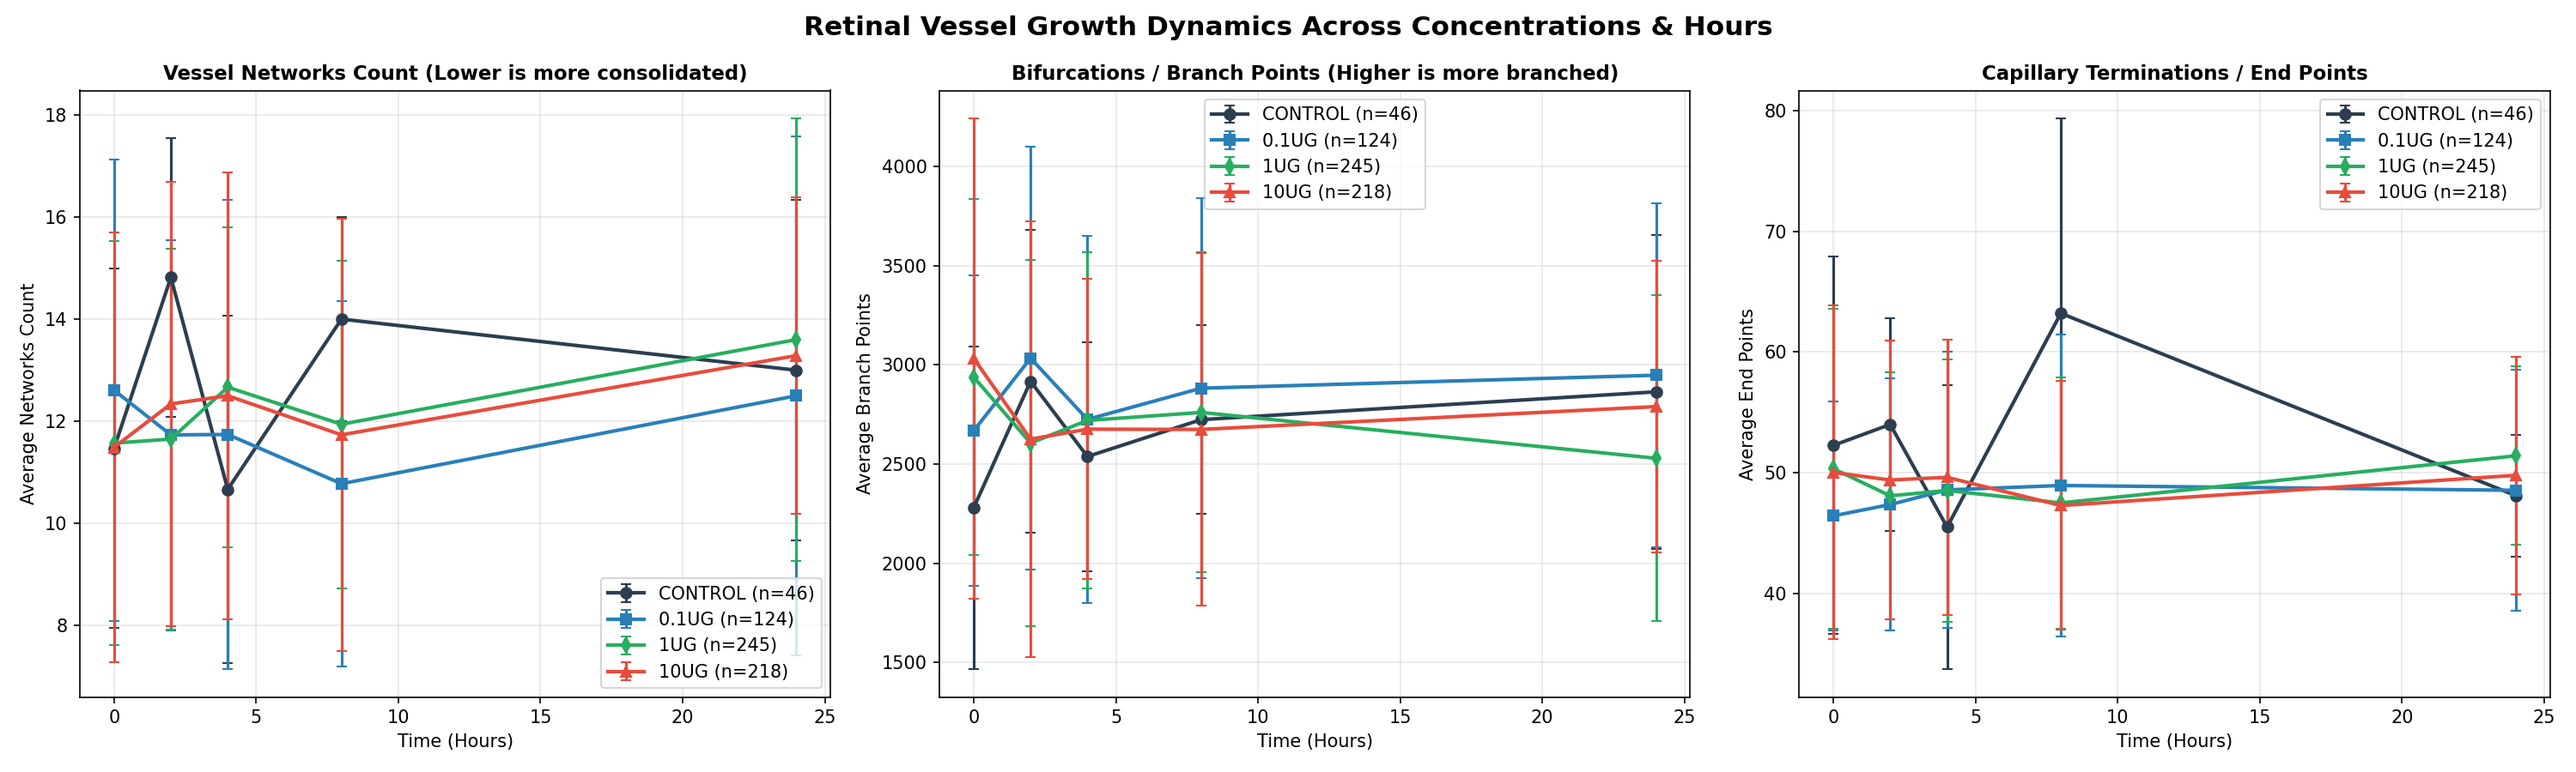
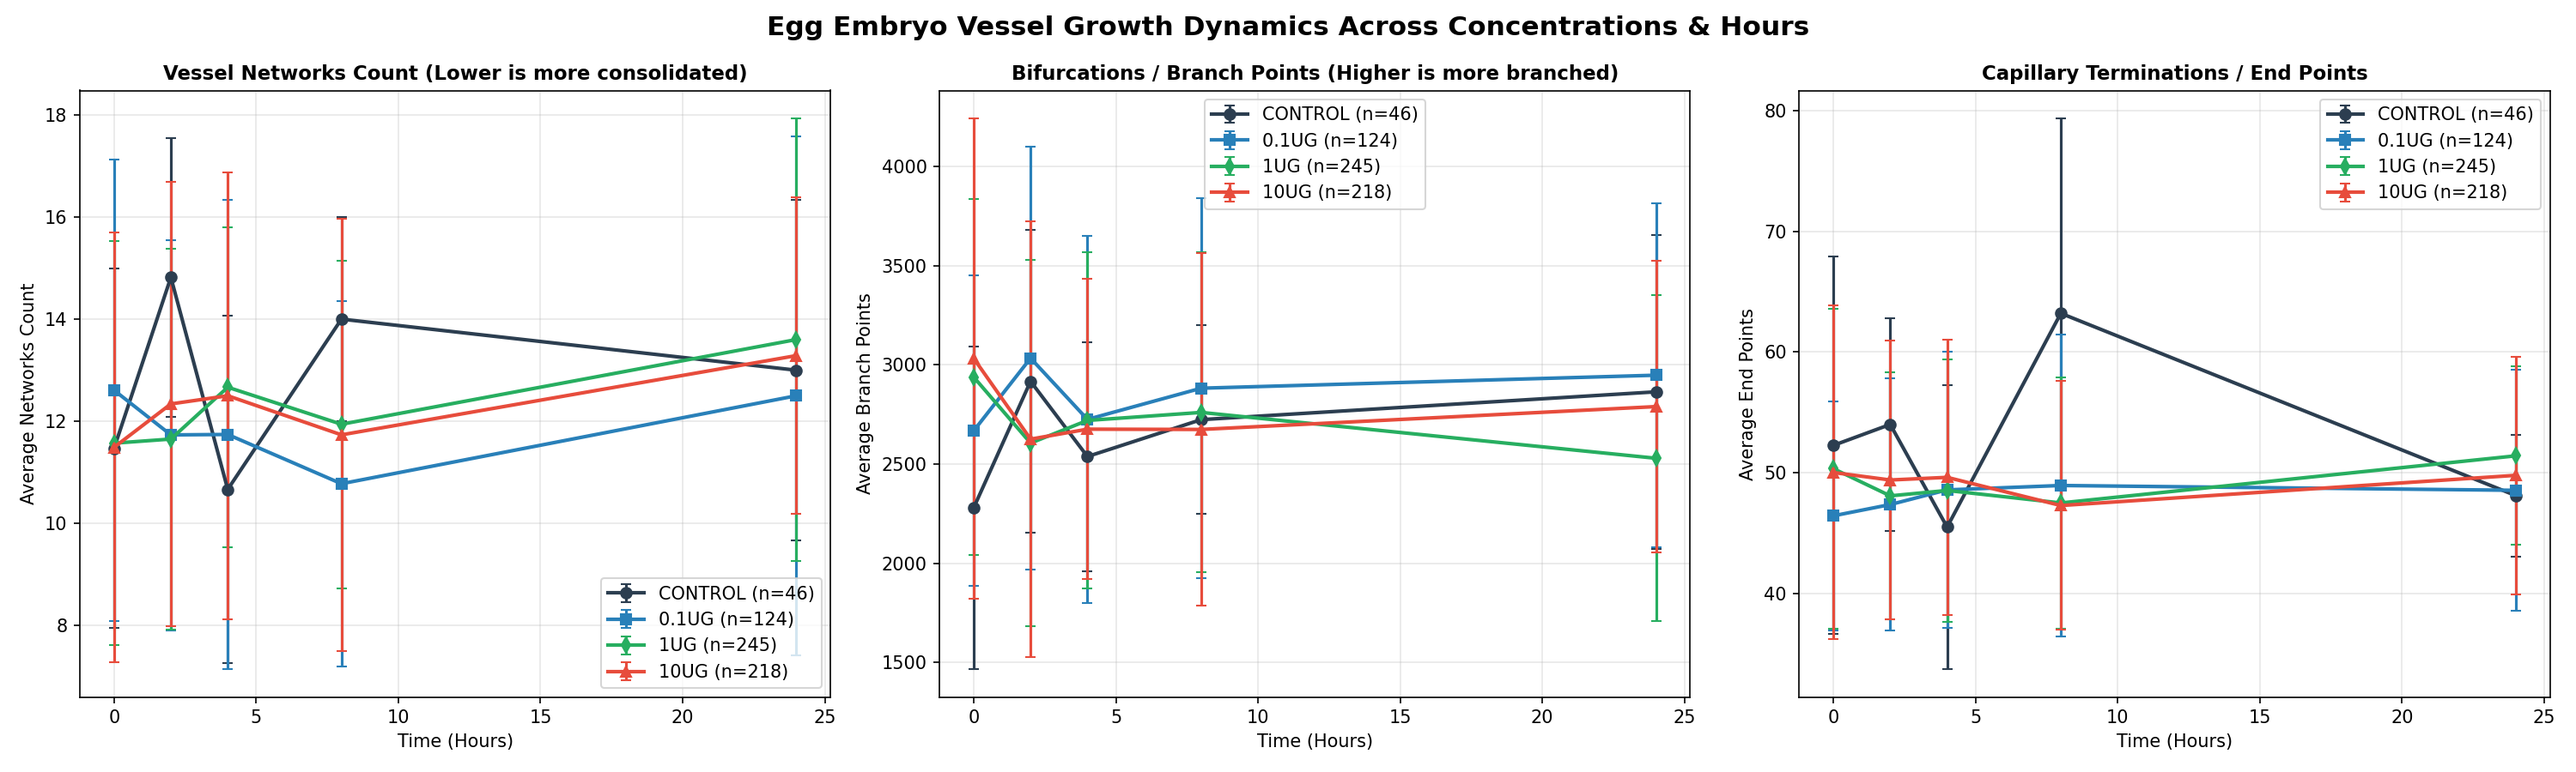
fix: rename retinal to egg embryo in vessel growth analysis

Changed region(s): [[0.279, 0.0, 0.713, 0.0622]]

diff --git a/vessel_growth_analysis.py b/vessel_growth_analysis.py
@@ -351,7 +351,7 @@ def plot_growth_curves(summary_data):
         concs_data[s["concentration"]].append(s)
 
     fig, axes = plt.subplots(1, 3, figsize=(20, 6))
-    fig.suptitle("Retinal Vessel Growth Dynamics Across Concentrations & Hours", fontsize=15, fontweight="bold")
+    fig.suptitle("Egg Embryo Vessel Growth Dynamics Across Concentrations & Hours", fontsize=15, fontweight="bold")
 
     colors = {
         "control": "#2c3e50",
@@ -450,7 +450,7 @@ def plot_growth_table(summary_data):
         else:
             cell.set_facecolor(row_colors[row - 1])
                 
-    plt.title("Multi-Concentration Growth Analysis Summary (Retinal Vessel Kinetics)", y=0.98, fontsize=13, fontweight="bold")
+    plt.title("Multi-Concentration Growth Analysis Summary (Egg Embryo Vessel Kinetics)", y=0.98, fontsize=13, fontweight="bold")
     plt.tight_layout()
     
     out_table = os.path.join(OUTPUT_DIR, "vessel_growth_table.png")

diff --git a/README.md b/README.md
@@ -137,7 +137,7 @@ This will perform skeletonization on the predicted binary masks, locate branch p
 
 ## 📈 Vessel Growth Analysis (Multi-Concentration Comparison)
 
-To analyze how retinal/angiogenesis blood vessels grow and branch over time across different drug concentrations, we performed a quantitative growth analysis for **Control**, **0.1ug**, **1ug**, and **10ug** concentrations. 
+To analyze how egg embryo/angiogenesis blood vessels grow and branch over time across different drug concentrations, we performed a quantitative growth analysis for **Control**, **0.1ug**, **1ug**, and **10ug** concentrations. 
 
 ### Methodology
 1. **Metadata Decoding**: Dataset images (500 train, 137 test) were matched back to the original cropped files in the raw dataset using downscaled MSE similarity to extract experimental metadata (concentration and timepoints).
